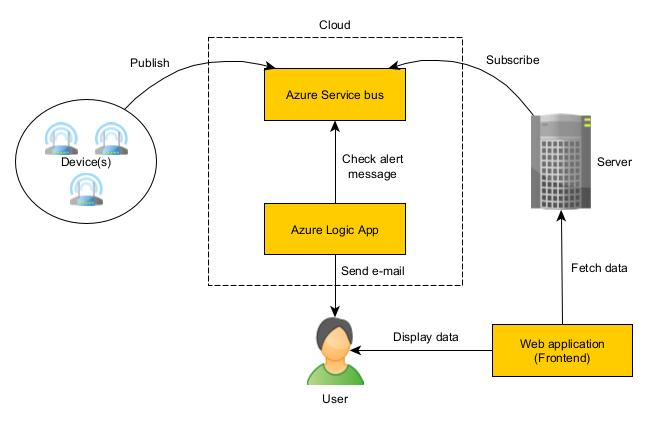
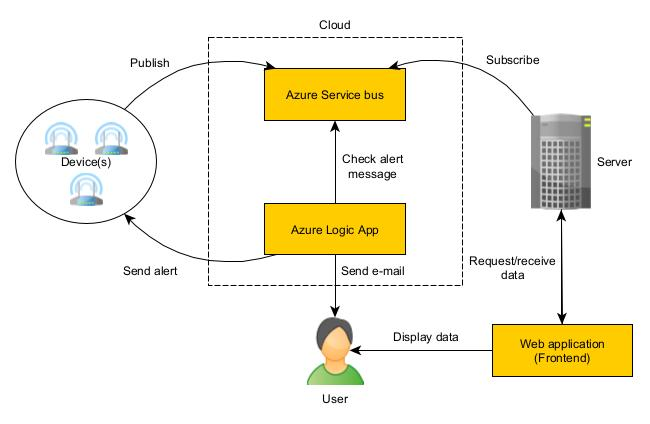
Update readme

diff --git a/README.md b/README.md
@@ -2,27 +2,28 @@
 A project that utilizes a DHT11 sensor to measure temperature and humidity and provides real-time monitoring and alerts. The project includes a web frontend built with Angular, a Node.js server, and integration with Azure services for data processing and notification.
 
 ## Description
-The DHT11 Sensor Monitoring System allows you to monitor temperature and humidity readings from a DHT11 sensor in real-time. The system consists of three main components:
+The DHT11 Sensor Monitoring System allows you to monitor temperature and humidity readings from a DHT11 sensor in real-time. The system consists of four main components:
 
-1. Frontend: A web application built with Angular that provides a user-friendly interface for viewing sensor data, selecting devices, and receiving alerts.
+1. Frontend: A web application built with Angular that provides an interface for selecting devices and viewing their measured data.
 
-2. Server: A Node.js server that acts as an intermediary between the frontend and the sensor. It handles requests from the frontend, retrieves data from the sensor, and provides APIs for accessing device information and data.
+2. Server: A Node.js server that acts as an intermediary between the frontend and the sensor. It handles requests from the frontend, retrieves data from the sensor (via Azure), and provides APIs for accessing device information and data.
 
-3. Azure Integration: The system integrates with Azure services for data processing and notifications. It utilizes Azure Service Bus Topics for publishing sensor data, Azure Logic Apps for email notifications, and Azure Functions for data processing and triggering alerts.
+3. Azure Integration: The system integrates with Azure services for data processing and notifications. It utilizes Azure Service Bus Topics for publishing sensor data to specific topics and Azure Logic Apps for email notifications.
+   
+4. Arduino UNO with DHT11 sensor: For measuring temperature and humidity. Since Arduino UNO does not have built-in WiFi capabilities it uses Serial communication to send data to the PC via COM4 port to the helper script that forwards the data to the cloud.
 
 The project enables you to visualize sensor data, track historical trends, set thresholds for alert notifications, and receive email alerts when the temperature or humidity exceeds the defined thresholds.
 
 ## Features
 - Real-time monitoring of temperature and humidity readings
-- Select and view data from multiple devices/sensors
-- Historical data visualization through charts and graphs
-- Threshold-based alert system for high temperature or humidity levels
-- Email notifications for triggered alerts
-- Integration with Azure services for scalable data processing and notifications
+- Select and view data from multiple devices
+- Data visualization through charts
+- Periodic data storage in JSON files for every device
+- Threshold-based alert system for high temperature or humidity levels integrated with Azure services for scalable data processing and notifications
 
 # Installation
 1. Clone the repository from GitHub.
-2. Install the necessary dependencies for the frontend and server using npm.
+2. Install the necessary dependencies for the frontend and server using `npm`.
 3. Set up the Azure services (Service Bus, Logic Apps, Functions) according to the provided instructions in the project documentation.
 4. Configure the publisher (arduino) and server to connect to the appropriate Azure resources by updating the configuration files with the required connection strings and endpoints.
 
@@ -33,8 +34,14 @@ Connect arduino with DHT11 sensor to the PC, start helper script
 node .\publisher.js
 ```
 
-Start the server ( `node .\backend\server.js`).
-Launch the frontend in the `frontend` directory (`ng serve`).
+Start the server 
+```
+node .\backend\server.js
+```
+Launch the frontend in the `frontend` directory 
+```
+ng serve
+```
 Access the frontend in your web browser to see device/s and data.
 Monitor the charts and receive email alerts when the thresholds are exceeded.
 
